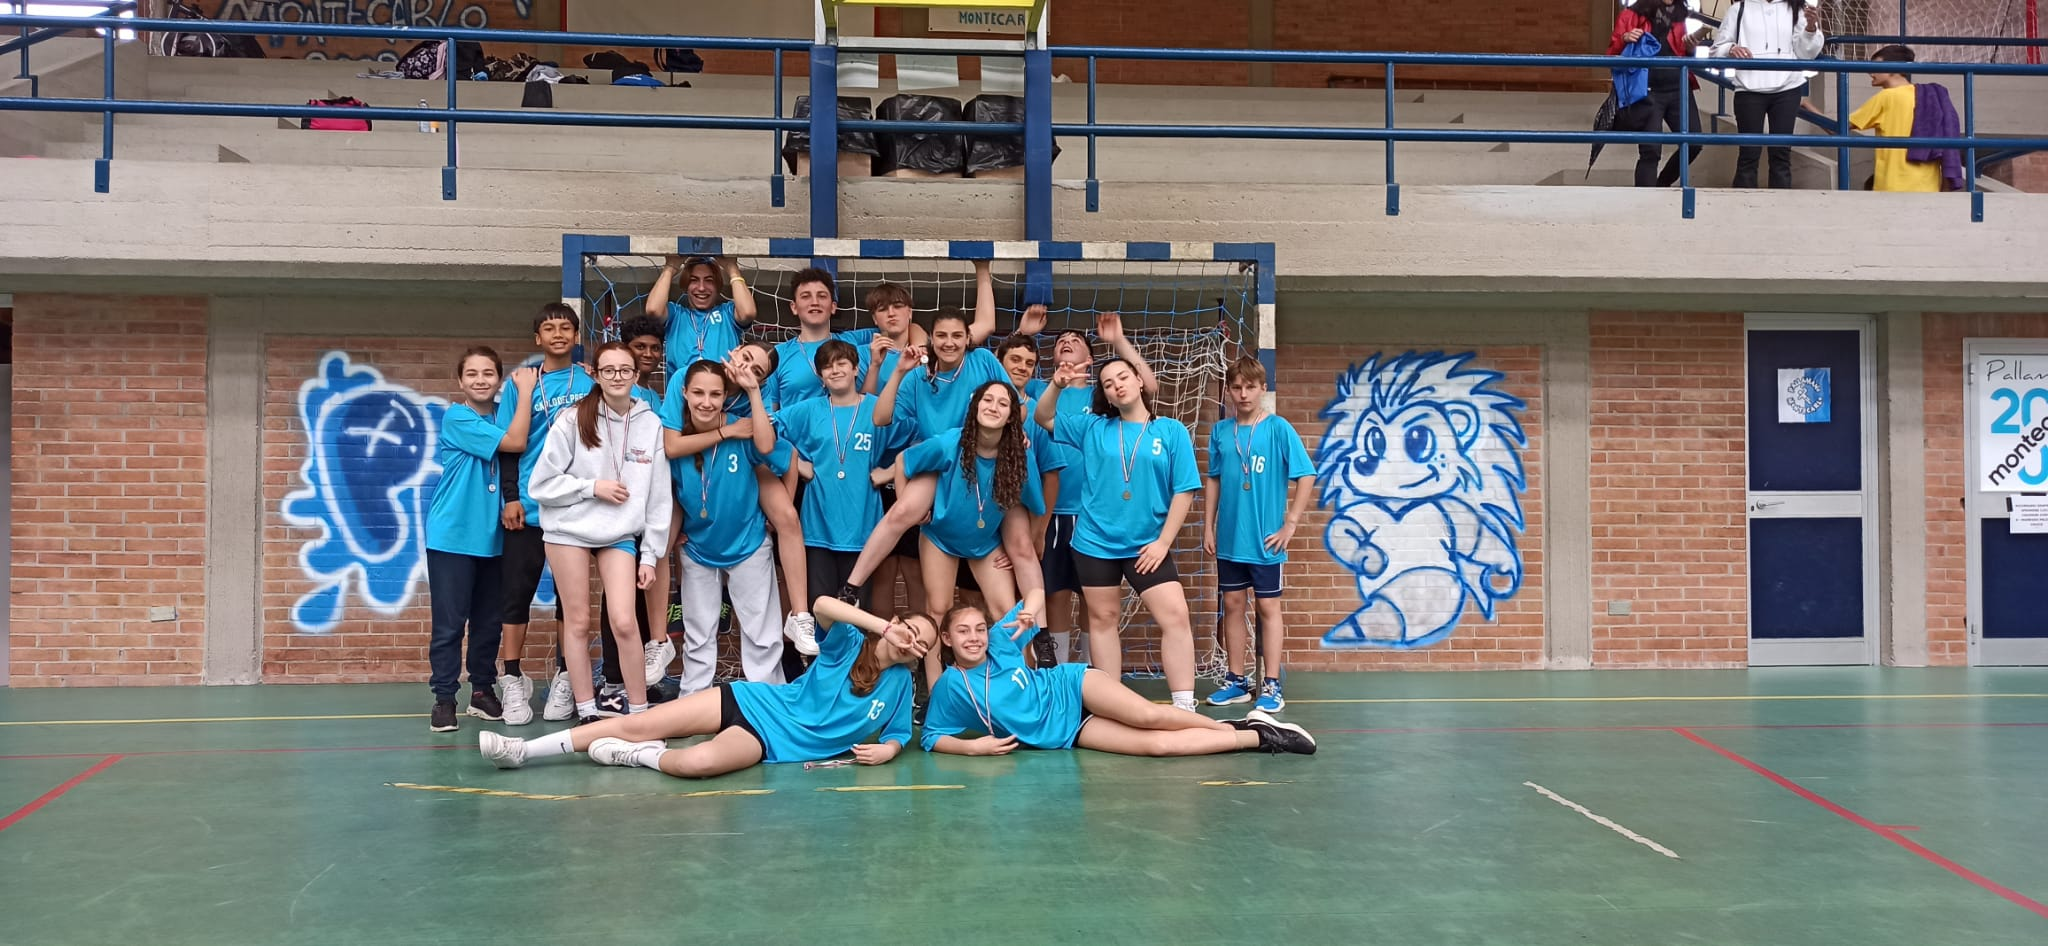
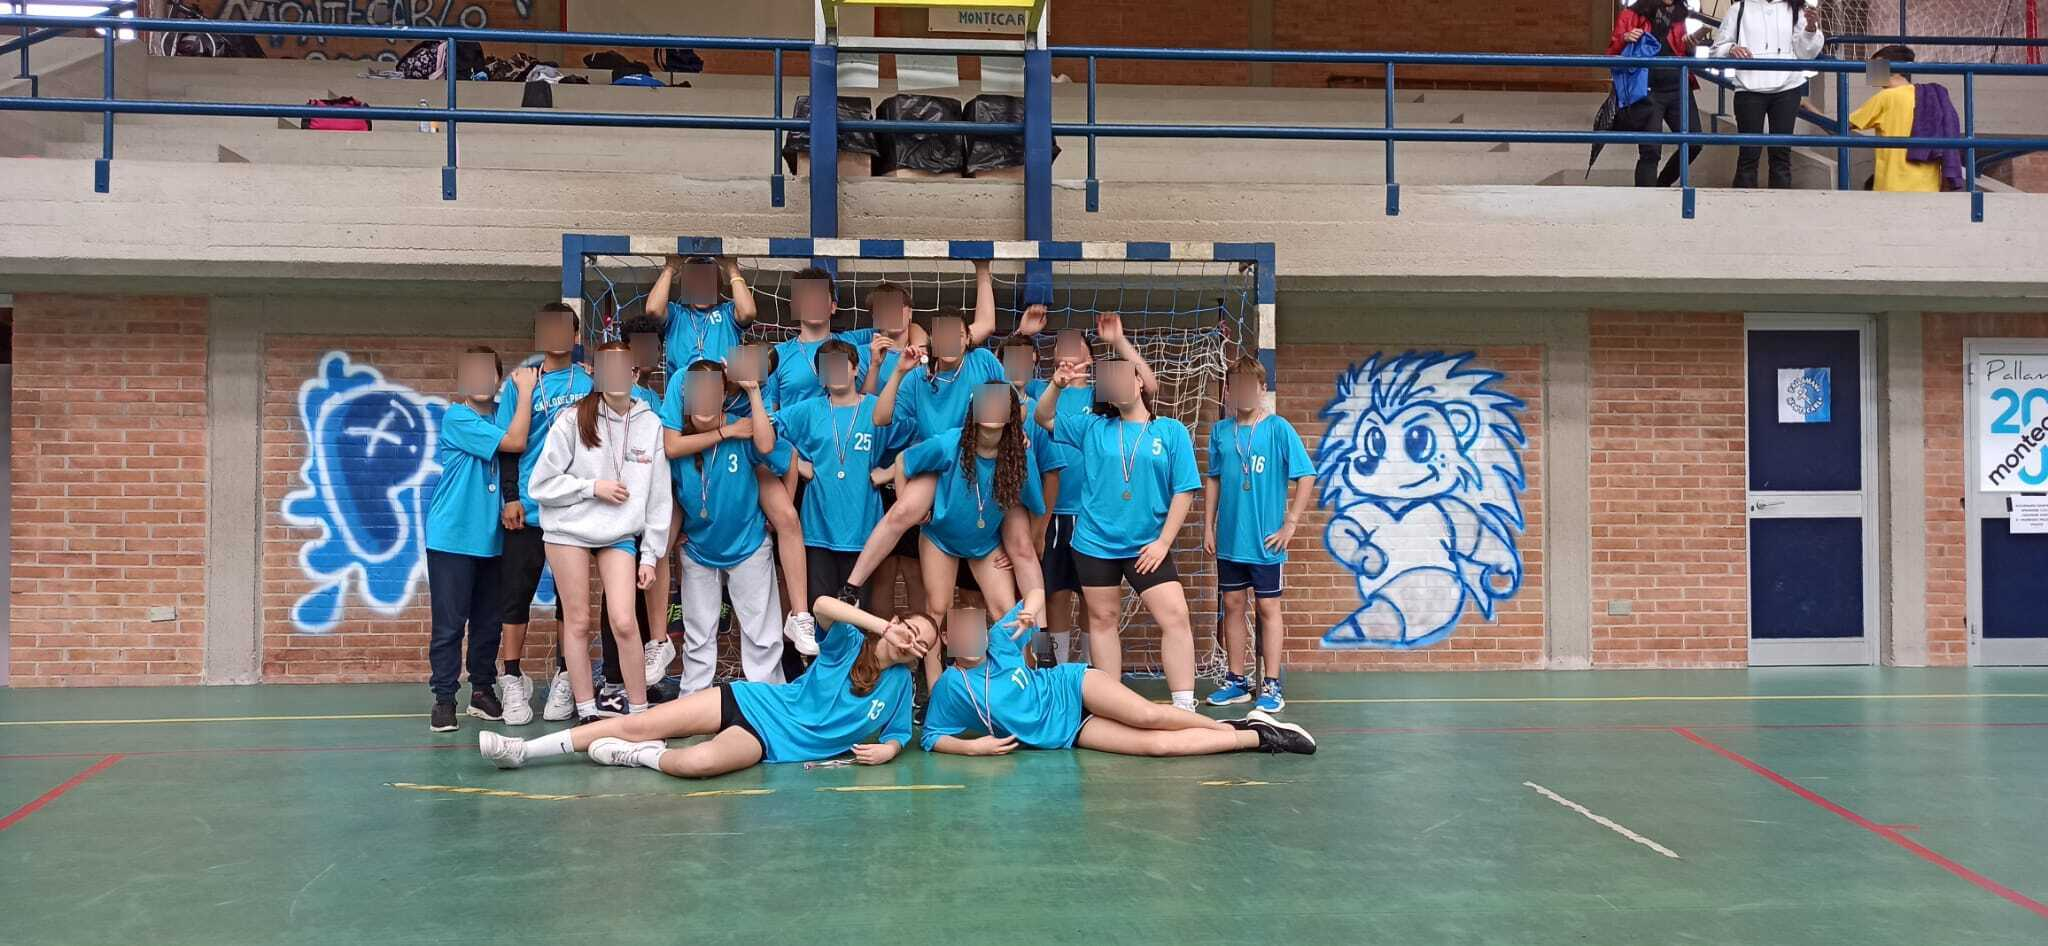
feat: blur faces + fix: remove the mentioning to the Musical

diff --git a/src/elements/os.html b/src/elements/os.html
@@ -2,7 +2,7 @@
   <head>
     <meta charset="utf-8" />
     <meta content="width=device-width, initial-scale=1.0" name="viewport" />
-    <title>Musical & orchestra - ML</title>
+    <title>Orchestra - OS</title>
     <meta
       content="La Tavola Periodica delle Informazioni Utili è un depliant interattivo della scuola Carlo del Prete, istituto comprensivo Pia Pera."
       name="description"
@@ -30,16 +30,10 @@
     <link href="https://interactivecdpdepliant.netlify.app/" rel="canonical" />
   </head>
   <body>
-    <h1>Musical & orchestra - ML</h1>
-    <img src="./assets/ml.jpg" alt="Musical & Orchestra" />
+    <h1>Orchestra - OS</h1>
+    <img src="./assets/os.jpg" alt="Orchestra" />
     <p>
-      La nostra scuola offre la possibilità di partecipare gratuitamente al
-      <b>Musical</b>, ossia una rappresentazione teatrale che combina
-      <b>canto</b>, <b>recitazione</b> e un po' di <b>danza</b>. Gli studenti
-      che scelgono questa attività hanno l'opportunità di esprimere la propria
-      <b>creatività</b>, migliorare le proprie abilità artistiche e
-      <b>lavorare in squadra</b>
-      con i compagni e le compagne. Inoltre, per gli alunni che partecipano alle
+      Per gli alunni che partecipano alle
       <a href="./cm.html">classi musicali</a>, la scuola dispone di un'<b
         >orchestra</b
       >
@@ -47,10 +41,9 @@
       Partecipare (senza costi) all'orchestra permette di mettere in pratica
       quanto imparato nelle lezioni a scuola, imparando anche a collaborare con
       altri facendo <b>musica d'insieme</b> e provando l'emozione unica di
-      <b>esibirsi davanti a un pubblico</b>. Queste attività non solo
-      arricchiscono l'esperienza scolastica, rendendola più divertente e
-      piacevole, ma contribuiscono anche alla <b>crescita personale</b> degli
-      studenti.
+      <b>esibirsi davanti a un pubblico</b>. Quest'attività non solo arricchisce
+      l'esperienza scolastica, rendendola più divertente e piacevole, ma
+      contribuisce anche alla <b>crescita personale</b> degli studenti.
     </p>
     <a href="/src/index.html"><button class="back">Indietro</button></a>
     <script src="../js/theme.js"></script>

diff --git a/src/index.html b/src/index.html
@@ -50,9 +50,7 @@
         <col span="6" />
       </colgroup>
       <tr>
-        <td class="talent" data-symbol="ml">
-          1<br />ML<br />Musical &amp; orchestra
-        </td>
+        <td class="talent" data-symbol="os">1<br />OS<br />Orchestra</td>
         <td class="no-border" colspan="4"></td>
         <td class="contact" data-symbol="st">4<br />ST<br />Sito scuola</td>
       </tr>
